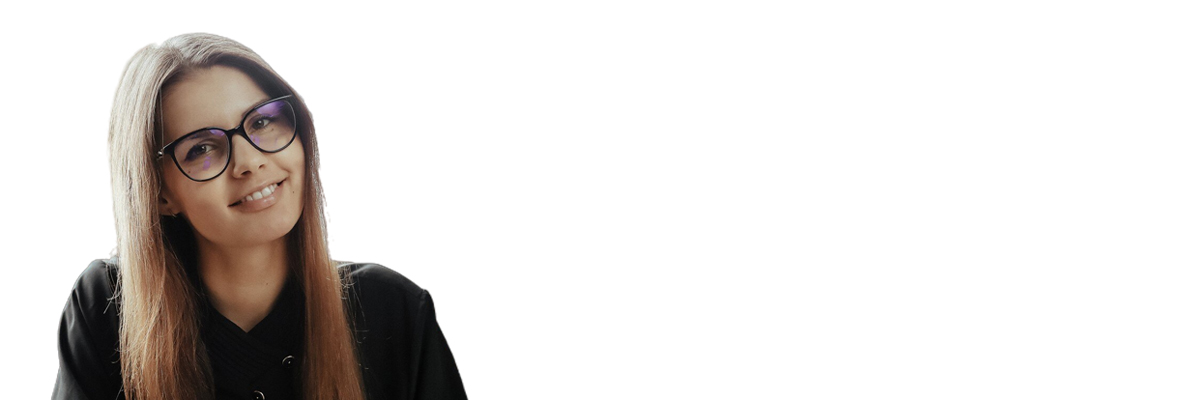
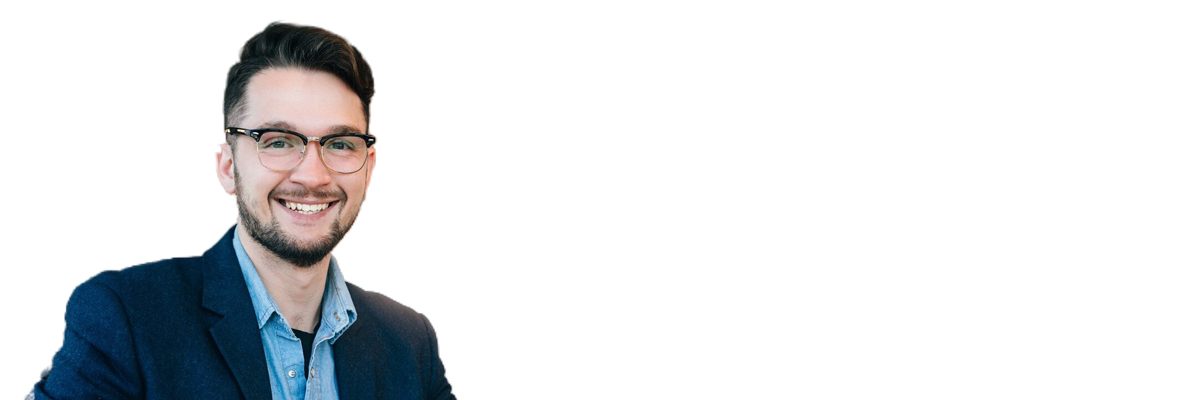
Added slider with JS

Changed region(s): [[0.0, 0.03, 0.4008, 1.0]]

diff --git a/index.html b/index.html
@@ -56,7 +56,29 @@
             <h2>Testimonios de nuestros clientes</h2>
         </div>
 
-        <div class="sliderContainer">
+<!--         <div id="sliderContainer">
+            <img id="slideImg" src="assets/cliente1.jpg">
+            <p id="pImg" style="font-family: 'Courier New', Courier, monospace;">"TechWave Solutions ha transformado nuestra operación de inventarios y nuestra tienda en línea.<br>Los resultados han sido asombrosos, con una notable reducción en costos y un incremento significativo en nuestras ventas en línea.<br>No podríamos estar más satisfechos con su trabajo."<br><br><span id="clientSign" style="font-family: 'Courier New', Courier, monospace; font-style: oblique;">- María Pérez, CEO de SuperMart.</span></p>
+        </div> -->
+
+        <div id="container">
+            <ul id="slider">
+                <li id="slider1">
+                    <img class="slideImg" src="assets/cliente1.jpg">
+                    <p class="pImg" style="font-family: 'Courier New', Courier, monospace;">"TechWave Solutions ha transformado nuestra operación de inventarios y nuestra tienda en línea.<br>Los resultados han sido asombrosos, con una notable reducción en costos y un incremento significativo en nuestras ventas en línea.<br>No podríamos estar más satisfechos con su trabajo."<br><br><span id="clientSign" style="font-family: 'Courier New', Courier, monospace; font-style: oblique;">- María Pérez, CEO de SuperMart.</span></p>
+                </li>
+                <li id="slider2">
+                    <img class="slideImg" src="assets/cliente2.jpg">
+                    <p class="pImg" style="font-family: 'Courier New', Courier, monospace;">"La plataforma desarrollada por TechWave Solutions ha sido un cambio radical para nuestra empresa.<br>La eficiencia en la gestión de proyectos ha mejorado enormemente y nuestros clientes están mucho más satisfechos.<br>La colaboración en tiempo real y los análisis de datos nos han ahorrado mucho tiempo."<br><br><span id="clientSign" style="font-family: 'Courier New', Courier, monospace; font-style: oblique;">- Juan Gómez, Director de Proyectos en Consultora XYZ.</span></p>
+                </li>
+                <li id="slider3">
+                    <img class="slideImg" src="assets/cliente3.jpg">
+                    <p class="pImg" style="font-family: 'Courier New', Courier, monospace;">"Gracias a TechWave Solutions, hemos logrado un nivel de seguridad sin precedentes en nuestra institución.<br>La reducción en incidentes de seguridad y el cumplimiento regulatorio han sido excepcionales.<br>Nuestros clientes confían plenamente en la seguridad de sus datos."<br><br><span id="clientSign" style="font-family: 'Courier New', Courier, monospace; font-style: oblique;">- Ana Martínez, CTO de Banco Financiero.</span></p>
+                </li>
+            </ul>
+        </div>
+
+<!--         <div class="sliderContainer">
             
             <ul class="slider">
                 
@@ -73,23 +95,21 @@
                     <p style="font-family: 'Courier New', Courier, monospace;">"Gracias a TechWave Solutions, hemos logrado un nivel de seguridad sin precedentes en nuestra institución. La reducción en incidentes de seguridad y el cumplimiento regulatorio han sido excepcionales. Nuestros clientes confían plenamente en la seguridad de sus datos."<br><br><span id="clientSign" style="font-family: 'Courier New', Courier, monospace; font-style: oblique;">- Ana Martínez, CTO de Banco Financiero.</span></p>
                 </li>
             
-            </ul>
+            </ul> -->
 
-            <ul class="controlNav">
+        <ul id="controlNav">
 
-                <li>
-                    <a href="#slide1">O</a>
-                </li>
-                <li>
-                    <a href="#slide2">O</a>
-                </li>
-                <li>
-                    <a href="#slide3">O</a>
-                </li>
+            <li>
+                <a href="#slider1">O</a>
+            </li>
+            <li>
+                <a href="#slider2">O</a>
+            </li>
+            <li>
+                <a href="#slider3">O</a>
+            </li>
 
-            </ul>
-        
-        </div>
+        </ul>
 
         <div id="homeApply">
             <div id="applyTextCont">

diff --git a/style.css b/style.css
@@ -52,56 +52,29 @@ ul{
 
 /* home - CLIENTS */
 
-.sliderContainer{
+ul, li{
+    list-style: none;
+    padding: 0;
+}
+
+#container{
+    position: relative;
+    background-color: #FFFFFF;
     max-width: 100%;
     width: 100%;
+    max-height: 400px;
     box-sizing: border-box;
 }
 
-.sliderContainer>ul, li{
-    padding: 0;
-    margin: 0;
-    list-style: none;
-}
-
-.sliderContainer>ul.slider {
-    position: relative;
-    max-width: inherit;
-    width: 100%;
-    height: 300px;
-}
-
-.sliderContainer>ul.slider li {
+.pImg{
     position: absolute;
-    left: 0px;
-    top: 0px;
-    opacity: 0;
-    width: inherit;
-    height: inherit;
-    transition: opacity .5s;
-    background: #fff;
-}
-
-.sliderContainer>ul.slider li img {
-    position: relative;
-    width: 100%;
-    height: 300px;
-    object-fit: cover;
-}
-
-.sliderContainer>ul.slider li:first-child {
-    opacity: 1;
-    /*Mostramos el primer <li>*/
-}
-
-.sliderContainer>ul.slider li:target {
-    opacity: 1;
-    /*Mostramos el <li> del enlace que pulsemos*/
-}
-
-.sliderContainer>ul.slider p{
-    position: absolute;
+    font-size: 20px;
+    top: 46%;
+    left: 64%;
     color: black;
+    transform: translate(-50%, -50%);
+    font-family: 'Courier New', Courier, monospace;
+    width: 50%;
 }
 
 /* slider btn */
@@ -111,12 +84,12 @@ ul{
     margin: 20px;
 }
 
-.sliderContainer>.controlNav li {
+#controlNav li {
     display: inline-block;
     text-align: center;
 }
 
-.sliderContainer>.controlNav li a {
+#controlNav li a {
     display: inline-block;
     color: white;
     text-decoration: none;

diff --git a/script.js b/script.js
@@ -1,3 +1,10 @@
+const slider1 = document.getElementById("slider1");
+const slider2 = document.getElementById("slider2");
+const slider3 = document.getElementById("slider3");
+
+let sliders = [slider1,slider2,slider3];
+let currentIndex = 0;
+
 document.addEventListener("DOMContentLoaded", function() {
     if (document.title === "TechWave Solutions") {
         let servBtn = document.getElementsByClassName("servImg");
@@ -20,3 +27,13 @@ document.addEventListener("DOMContentLoaded", function() {
         }
     }
 });
+
+document.addEventListener("DOMContentLoaded", sliderActive());
+
+function sliderActive() {
+    sliders.forEach(slider => slider.hidden = true);
+    sliders[currentIndex].hidden = false;
+    currentIndex = (currentIndex + 1) % sliders.length;
+}
+
+setInterval(sliderActive, 5000);
